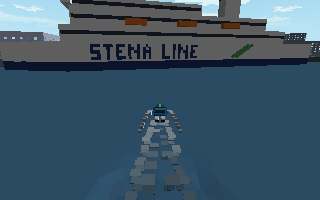
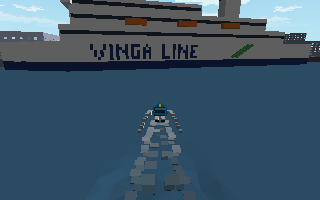
Name the docked ferry VINGA LINE instead of Stena Line
The user chose to keep the look and replace the real company's name.
The livery colours and plain green stripes stay; the hull reads VINGA
LINE, after the adventure's goal, with a five-wide V that reads at
320x200.

Changed region(s): [[0.2812, 0.21, 0.4375, 0.3]]

diff --git a/src/waterfront_harbor.c b/src/waterfront_harbor.c
@@ -20,8 +20,9 @@ static const Vector3 dock_center = { -20, 0, 182 };
 // authored berth on the quay facing the crane, not the real terminal, clear of the race start
 // and the traffic circuits, 2-7 m off the mapped bank (its bollards stand 12 m off the hull's
 // quay side to reach land). Size and draught are Stena Danica's (154.89 x 28.04 m, 6.31 m); the
-// height, decks and livery are read from photos. The bow points upstream, so the river side
-// shows the name reading from bow to stern, as in the user's photo.
+// height, decks and colours are read from photos. The name is a made-up line's, so the real
+// company's name and logo are not reproduced. The bow points upstream, so the river side shows
+// the name reading from bow to stern, as in the user's photo.
 static const WaterfrontFerry ferry = { { 237, 0, -376 }, 2.865f, 155, 28, 6.3f, 34 };
 static const Color timber = { 154, 123, 84, 255 };
 static const Color rubber = { 44, 52, 55, 255 };
@@ -53,10 +54,10 @@ BoatModelSpec waterfront_harbor_spec(int index)
 static const char *glyph(char c)
 {
     switch (c) {
-    case 'S':
-        return "###|#..|###|..#|###";
-    case 'T':
-        return "###|.#.|.#.|.#.|.#.";
+    case 'V':
+        return "#...#|#...#|.#.#.|.#.#.|..#..";
+    case 'G':
+        return "###|#..|#.#|#.#|###";
     case 'E':
         return "###|#..|##.|#..|###";
     case 'N':
@@ -138,7 +139,7 @@ static void build_ferry(BoatModel *m)
     // The car deck's stern door, and the name in navy on both sides with the green wave aft.
     boat_model_box(m, (Vector3) { 0, 7, l * .5f + .05f }, (Vector3) { 16, 6, .14f }, glass);
     for (int side = -1; side <= 1; side += 2) {
-        lettering(m, "STENA LINE", side, side > 0 ? -38 : 22, 10.2f, 1.2f, navy);
+        lettering(m, "VINGA LINE", side, side > 0 ? -38 : 22, 10.2f, 1.2f, navy);
         for (int stripe = 0; stripe < 2; ++stripe) {
             float z = 26 + stripe * 2.4f;
             boat_model_beam(m, (Vector3) { side * (b * .5f + .08f), 4.6f, z },

diff --git a/docs/FREE_RIDING_ADVENTURE_FIRST_STEPS.md b/docs/FREE_RIDING_ADVENTURE_FIRST_STEPS.md
@@ -2143,9 +2143,9 @@ livery (white, dark blue hull band, "Stena Line" and a green wave).
   22 m clear of the race start and grid. A first berth lay square to a bank corner 15–30 m off
   the quay; the harbour test's bollard check caught it.
 - **Model:** built in [`waterfront_harbor.c`](../src/waterfront_harbor.c) from `boat_model`
-  boxes, 712 triangles under the 1,024 cap: antifouling, navy band and white topsides, a
+  boxes, 736 triangles under the 1,024 cap: antifouling, navy band and white topsides, a
   stepped bow, the stern door, three superstructure tiers with window bands, bridge wings,
-  lifeboats, funnel and mast, "STENA LINE" in five-row pixel letters and two green wave
+  lifeboats, funnel and mast, the name in five-row pixel letters and two green wave
   stripes on both sides. Height 34 m to the masthead; decks, colours and proportions are by
   eye from the photo. The letters are one panel per run of lit cells through a new
   `boat_model_quad`; a box per cell overflowed the cap and silently dropped the whole hull.
@@ -2174,9 +2174,10 @@ livery (white, dark blue hull band, "Stena Line" and a green wave).
   passed all 230 active tests (13 retired disabled); with `PROTEUS_GPU_TESTS=ON` the 27
   GPU-labelled tests passed.
 - **Limitations:**
-  - **Name and livery:** "Stena Line" and its wave are a real company's. Kept at the user's
-    request for this playground; a public release should use the look without the name. Not
-    yet decided by the user.
+  - **Name (decided 2026-10-27):** the first version read "STENA LINE". The user chose to
+    keep the look and replace the name, so the hull now reads "VINGA LINE", a made-up line
+    named after the adventure's goal. The colours (white, navy band, green stripes) stay
+    close to the real ferries; the stripes are two plain slanted bars, not Stena's logo.
   - No manual playback or user acceptance. The quay side (lines, bollards) was not captured;
     it faces the bank.
   - No ramp, terminal building or linkspan; the gap to the curved bank is open water too

diff --git a/README.md b/README.md
@@ -378,8 +378,8 @@ circuits. They have visual wakes, navigation lights, reflections, shadows, and f
 hull contacts. Inspect `./build/harbor_review --view ferry --waves` or `--view launch`;
 see [harbor traffic](docs/HARBOR_TRAFFIC.md) for routes and limits.
 
-Across the river from the crane a white Stena Line ro-pax ferry lies docked at the south bank,
-at Stena Danica's 155 m, on both the river and `outer`. It rides the gentle waves on its
+Across the river from the crane a white ro-pax ferry of the made-up Vinga Line lies docked at
+the south bank, in Stena Line's colours at Stena Danica's 155 m, on both the river and `outer`. It rides the gentle waves on its
 mooring lines, and its hull blocks boats and projectiles like the moored fleet
 ([A3.5e](docs/FREE_RIDING_ADVENTURE_FIRST_STEPS.md#a35e-result-2026-10-27)).
 

diff --git a/docs/HARBOR_BOATS.md b/docs/HARBOR_BOATS.md
@@ -6,7 +6,7 @@ Six leisure boats share a floating pontoon along the west dock bank; a workboat
 lies beside equipment on the east quay. They appear in the river boating location (and appeared
 in the demo, storyboards and Eriksberg location removed on 2026-10-25). The basin course is unchanged.
 Placements and vessel designs are artistic additions, not surveyed marina facilities.
-Since 2026-10-27 the same module also docks a Stena Line ferry across the river from the crane
+Since 2026-10-27 the same module also docks a Stena-style ferry ("VINGA LINE") across the river from the crane
 ([A3.5e](FREE_RIDING_ADVENTURE_FIRST_STEPS.md#a35e-result-2026-10-27)): one static model, posed
 and moored like the fleet, with its own contact box.
 
